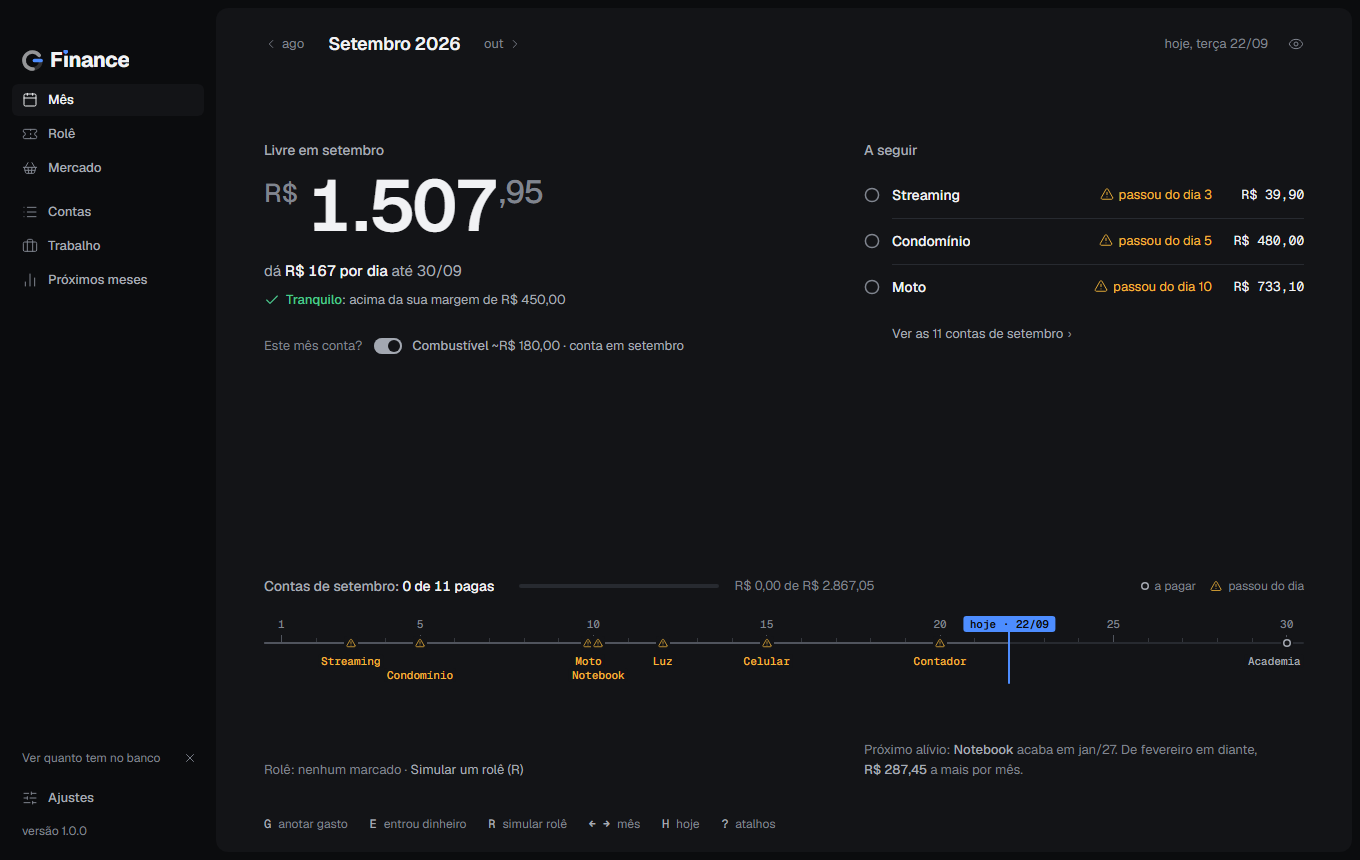
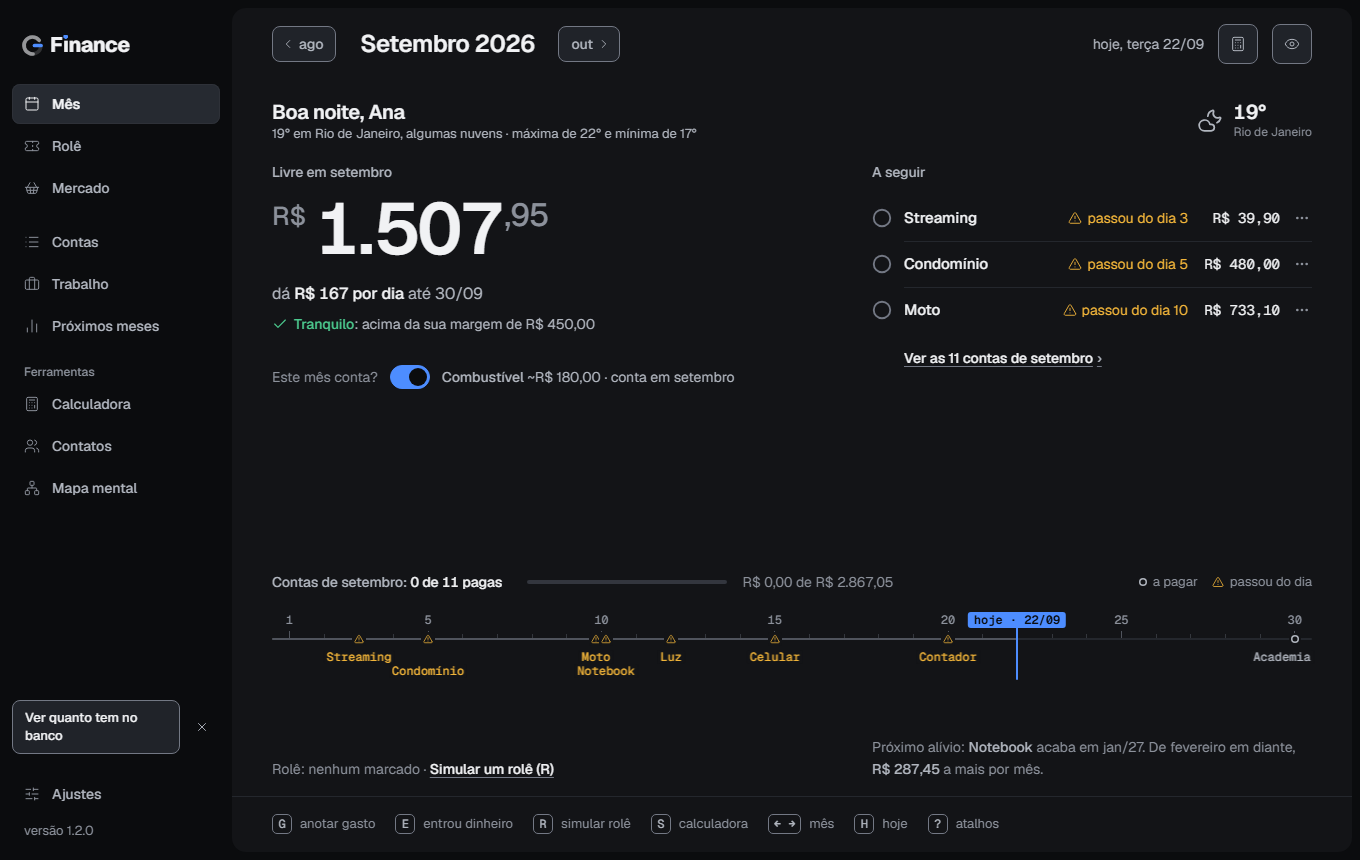
README: prints e recursos da 1.2.0

diff --git a/README.md b/README.md
@@ -15,13 +15,19 @@ Programa de Windows para organizar as suas contas. Local, sem conta, sem nuvem, 
 - **Contas do jeito que elas são:** fixa, parcelada (mostra quando acaba), variável e "às vezes" (como a gasolina que só entra em alguns meses).
 - **Simular um rolê:** monte o fim de semana e veja na hora se cabe no mês.
 - **Próximos meses:** quando cada parcela acaba e quanto o mês alivia.
-- **Mercado:** a lista do mês inteiro, feita para o tamanho da sua casa.
+- **Mercado:** a lista do mês inteiro, feita para o tamanho da sua casa, e a nota fiscal do cupom conferindo a compra.
+- **Cartão de crédito:** a fatura se monta sozinha e só sai do banco no dia em que você paga.
+- **Calculadora:** faça a conta e ela vira gasto num clique; divide a conta, compara parcelar com à vista.
+- **Contatos:** quem te deve, o que você deve e o que dá para negociar, com lembretes.
+- **Mapa mental:** planeje metas e projetos com valores que se somam.
 - **Trabalho e benefícios:** salário que cai sozinho e o saldo do vale no cartão.
 - **Importa a sua lista:** cole o bloco de notas onde você já anota as contas e ele monta o mês.
 
 | Rolê | Próximos meses |
 |---|---|
 | ![Simular um rolê](imagens/role.png) | ![Próximos meses](imagens/proximos.png) |
+| **Mercado** | **Contatos** |
+| ![Mercado](imagens/mercado.png) | ![Contatos](imagens/contatos.png) |
 
 ## Baixar e instalar
 
